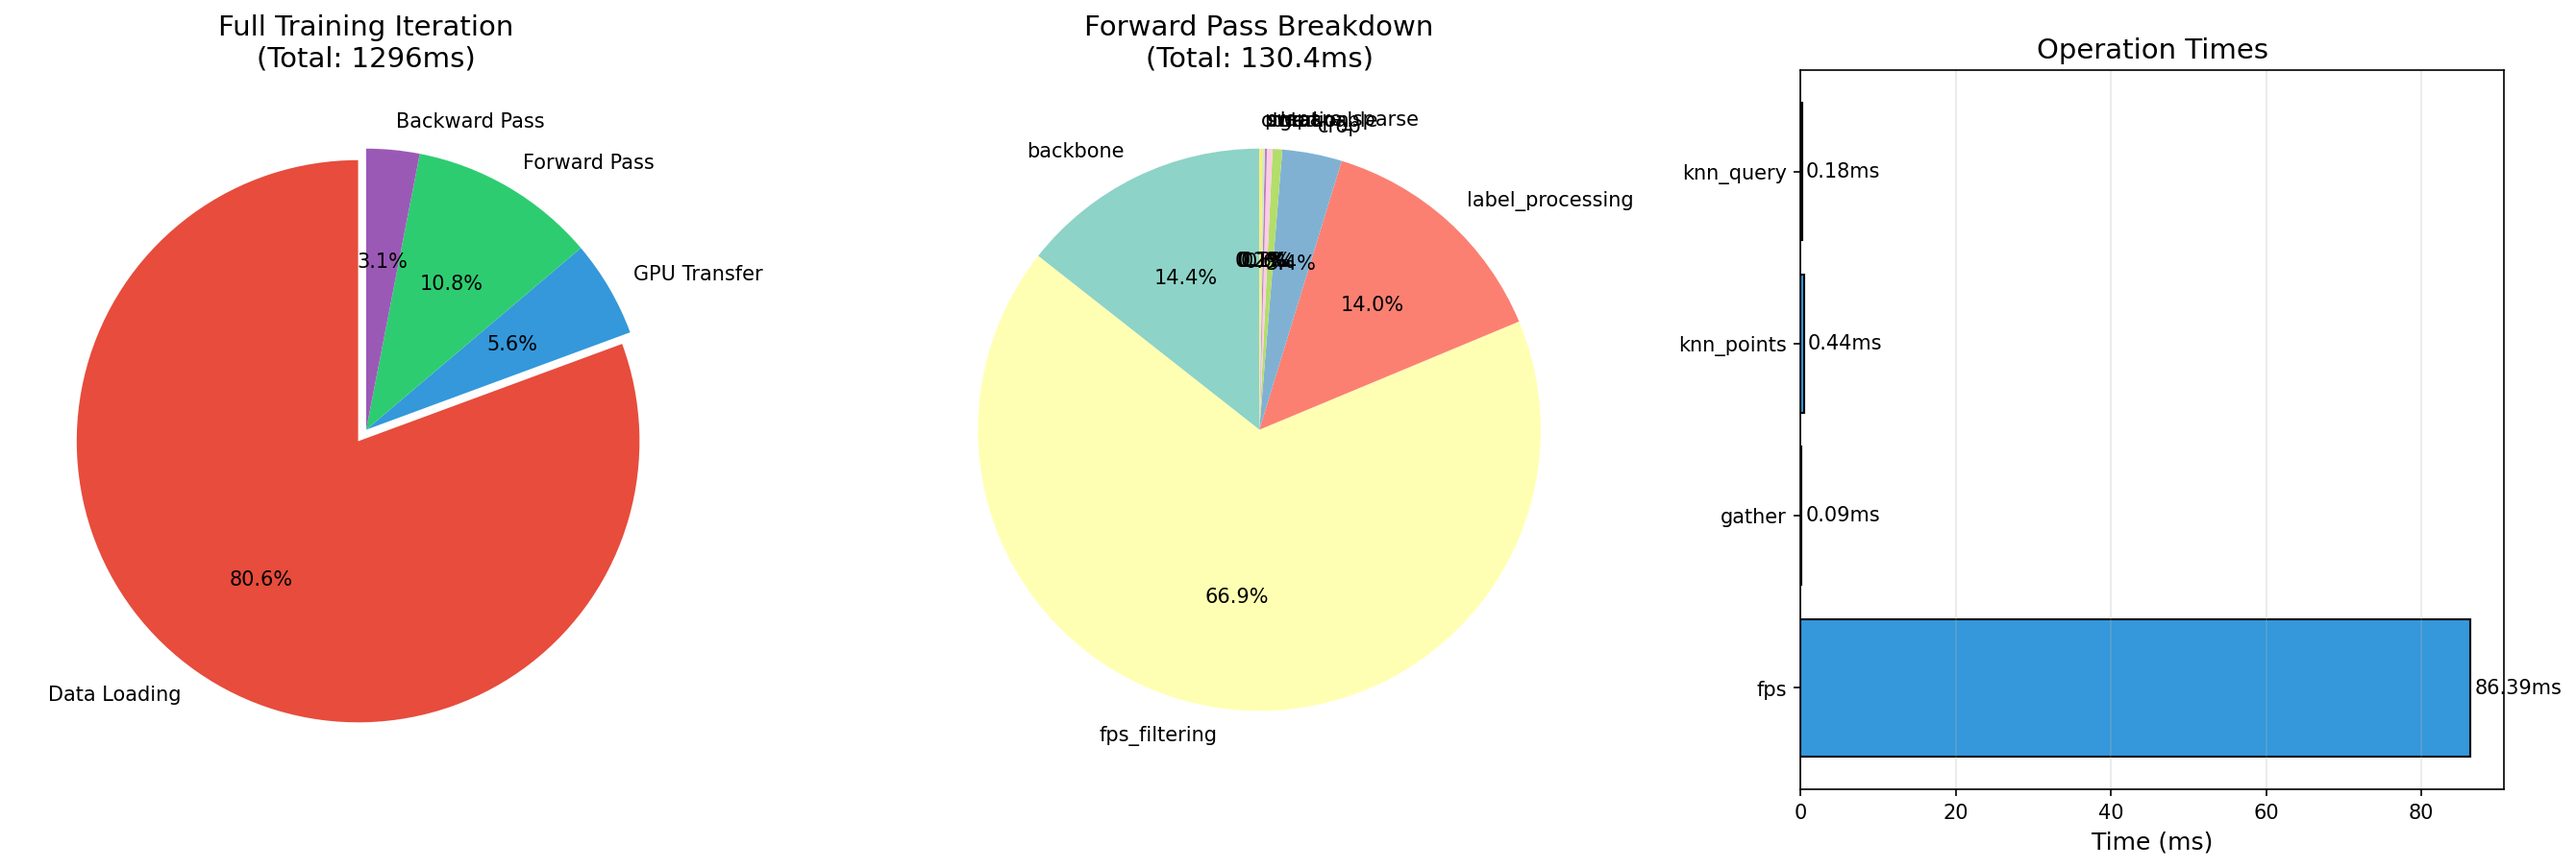
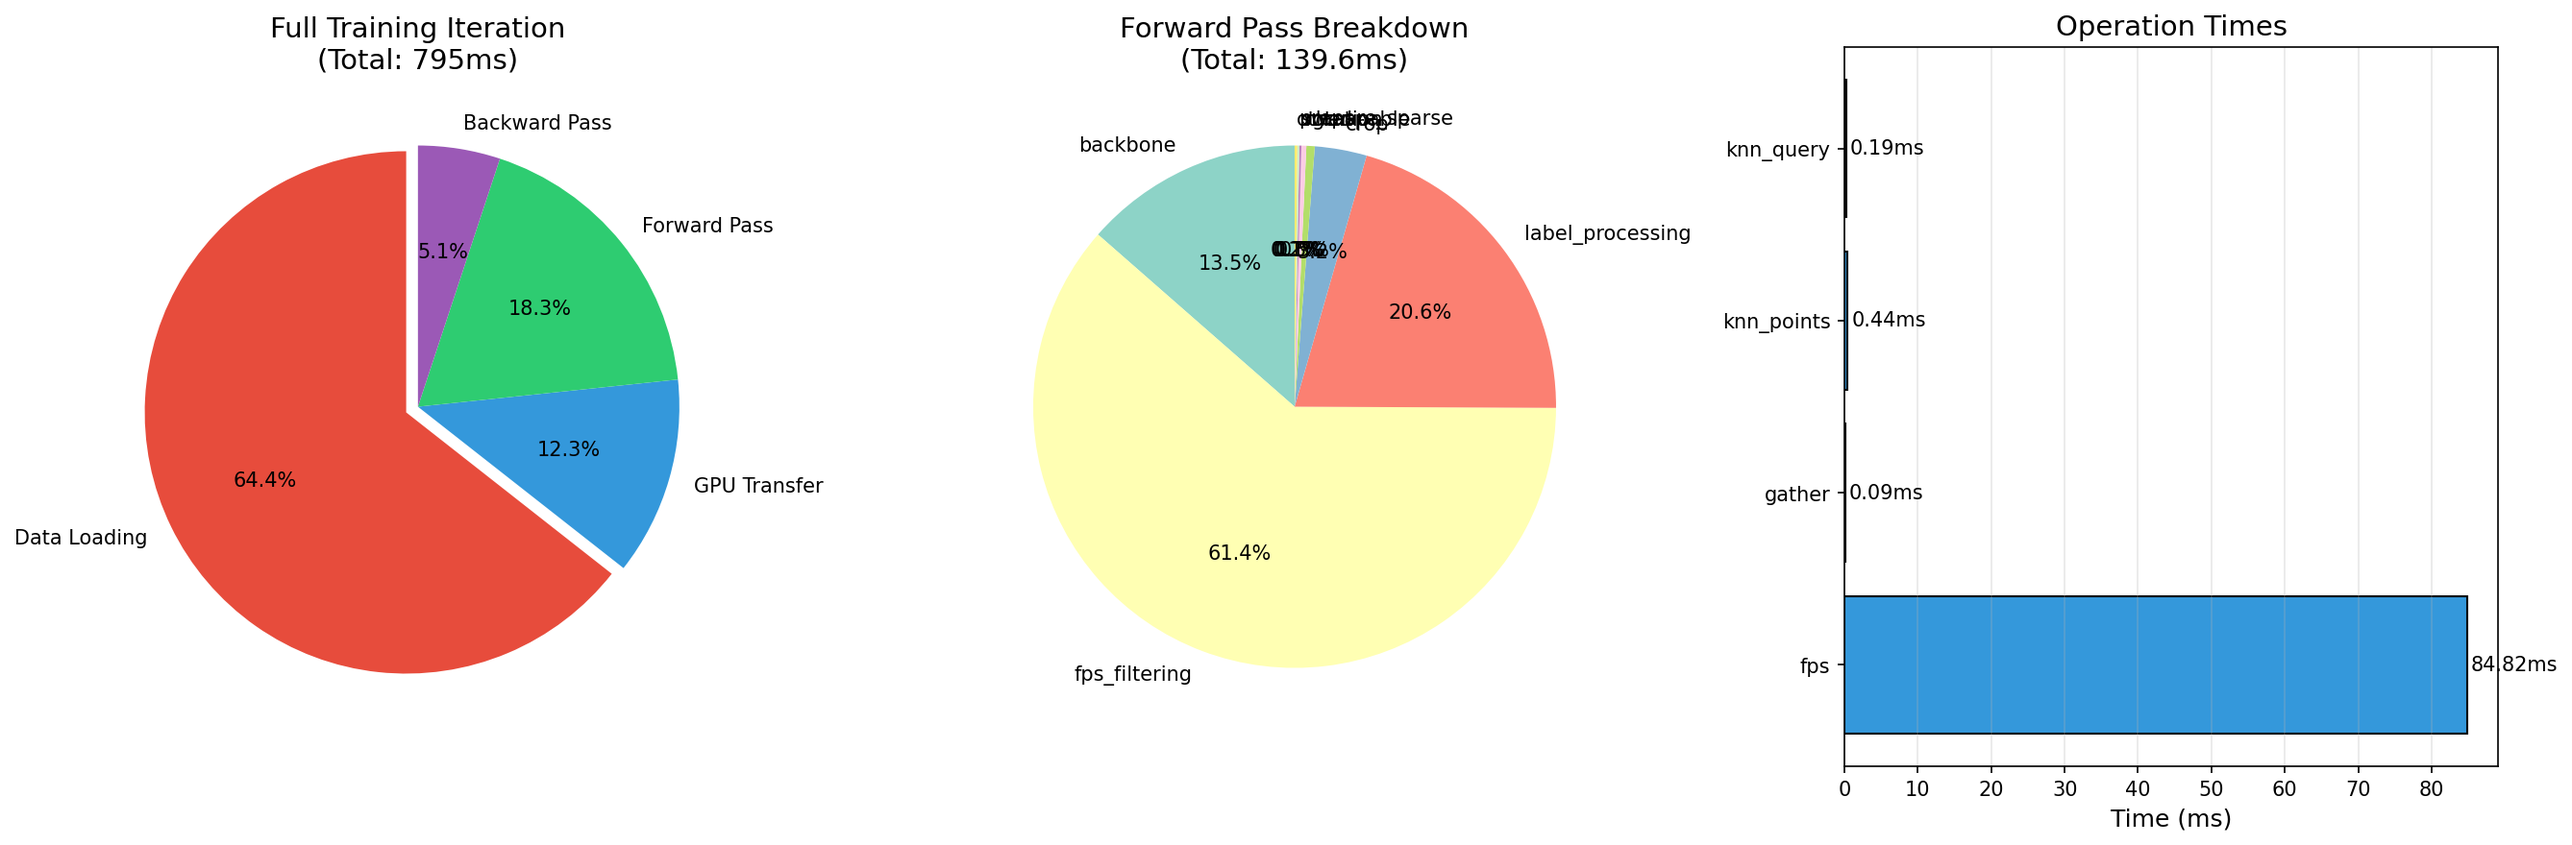
reverted back to lazy loading but increased cache size

diff --git a/dataset/graspnet_dataset.py b/dataset/graspnet_dataset.py
@@ -10,10 +10,74 @@ from functools import lru_cache
 
 import torch
 import collections.abc as container_abcs
-from torch.utils.data import Dataset
+from torch.utils.data import Dataset, Sampler
 from tqdm import tqdm
 from utils.data_utils import CameraInfo, transform_point_cloud, create_point_cloud_from_depth_image, get_workspace_mask
 from utils.stable_score_utils import ensure_stable_labels_exist, check_stable_labels_available
+
+
+class SceneAwareSampler(Sampler):
+    """
+    A sampler that groups samples by scene to maximize cache efficiency.
+    
+    Instead of randomly sampling across all indices (which causes cache thrashing
+    with lazy-loaded collision labels), this sampler:
+    1. Shuffles the order of scenes
+    2. Shuffles frames within each scene
+    3. Returns all frames from one scene before moving to the next
+    
+    This ensures that collision labels for a scene stay in cache while all
+    frames from that scene are being processed.
+    """
+    def __init__(self, dataset, shuffle=True, seed=None):
+        """
+        Args:
+            dataset: GraspNetDataset instance
+            shuffle: If True, shuffle scenes and frames within scenes
+            seed: Random seed for reproducibility (set per epoch for distributed training)
+        """
+        self.dataset = dataset
+        self.shuffle = shuffle
+        self.seed = seed
+        self.epoch = 0
+        
+        # Build scene to indices mapping
+        self.scene_to_indices = {}
+        for idx, scene in enumerate(dataset.scenename):
+            if scene not in self.scene_to_indices:
+                self.scene_to_indices[scene] = []
+            self.scene_to_indices[scene].append(idx)
+        
+        self.scenes = list(self.scene_to_indices.keys())
+    
+    def __iter__(self):
+        # Create a generator for reproducibility
+        if self.shuffle:
+            g = torch.Generator()
+            g.manual_seed(self.seed + self.epoch if self.seed is not None else self.epoch)
+            
+            # Shuffle scene order
+            scene_order = torch.randperm(len(self.scenes), generator=g).tolist()
+            
+            for scene_idx in scene_order:
+                scene = self.scenes[scene_idx]
+                indices = self.scene_to_indices[scene].copy()
+                # Shuffle frames within scene
+                frame_order = torch.randperm(len(indices), generator=g).tolist()
+                for i in frame_order:
+                    yield indices[i]
+        else:
+            # No shuffling - iterate in order
+            for scene in self.scenes:
+                for idx in self.scene_to_indices[scene]:
+                    yield idx
+    
+    def __len__(self):
+        return len(self.dataset)
+    
+    def set_epoch(self, epoch):
+        """Set epoch for shuffling reproducibility (important for distributed training)."""
+        self.epoch = epoch
 
 
 class LazyGraspLabels:
@@ -76,9 +140,11 @@ class GraspNetDataset(Dataset):
                         "Failed to compute stable labels. Please install trimesh: pip install trimesh"
                     )
         
-        # Pre-load collision labels into memory (like original implementation)
-        # This uses ~25-30GB RAM but eliminates the data loading bottleneck
-        self.collision_labels = {}
+        # Cache for collision labels - use LRU cache with max size to limit memory
+        # This allows recently accessed scenes to stay in memory while releasing old ones
+        # Size of 10 scenes balances memory (~1.8GB) with hit rate for batched scene access
+        self._collision_cache = {}
+        self._collision_cache_maxsize = 10  # Keep at most 10 scenes in cache
 
         if split == 'train':
             self.sceneIds = list(range(0,100))
@@ -101,7 +167,7 @@ class GraspNetDataset(Dataset):
         self.scenename = []
         self.frameid = []
         self.graspnesspath = []
-        for x in tqdm(self.sceneIds, desc='Loading data paths and collision labels...'):
+        for x in tqdm(self.sceneIds, desc='Loading data paths...'):
             for img_num in range(256):
                 self.depthpath.append(os.path.join(root, 'scenes', x, camera, 'depth', str(img_num).zfill(4) + '.png'))
                 self.rgbpath.append(os.path.join(root, 'scenes', x, camera, 'rgb', str(img_num).zfill(4) + '.png'))
@@ -110,15 +176,39 @@ class GraspNetDataset(Dataset):
                 self.graspnesspath.append(os.path.join(root, 'graspness', x, camera, str(img_num).zfill(4) + '.npy'))
                 self.scenename.append(x.strip())
                 self.frameid.append(img_num)
-            # Pre-load collision labels for this scene
-            if self.load_label:
-                collision_labels_npz = np.load(os.path.join(root, 'collision_label', x.strip(), 'collision_labels.npz'))
-                self.collision_labels[x.strip()] = {}
-                for i in range(len(collision_labels_npz)):
-                    self.collision_labels[x.strip()][i] = collision_labels_npz['arr_{}'.format(i)]
+            # REMOVED: No longer loading all collision labels at initialization
+            # This prevents each DataLoader worker from holding 3GB+ of collision data in memory
 
     def scene_list(self):
         return self.scenename
+    
+    def _load_collision_labels(self, scene):
+        """
+        Lazy load collision labels for a specific scene on-demand.
+        Uses an LRU cache to keep recently accessed scenes in memory.
+        This prevents memory explosion with multiple DataLoader workers.
+        """
+        if scene in self._collision_cache:
+            return self._collision_cache[scene]
+        
+        # Load collision labels for this scene
+        collision_labels_path = os.path.join(self.root, 'collision_label', scene, 'collision_labels.npz')
+        collision_labels_npz = np.load(collision_labels_path)
+        
+        # Convert to dictionary format
+        collision_dict = {}
+        for i in range(len(collision_labels_npz)):
+            collision_dict[i] = collision_labels_npz['arr_{}'.format(i)]
+        
+        # Implement simple LRU: if cache is full, remove oldest entry
+        if len(self._collision_cache) >= self._collision_cache_maxsize:
+            # Remove the first (oldest) item
+            oldest_scene = next(iter(self._collision_cache))
+            del self._collision_cache[oldest_scene]
+        
+        # Add to cache
+        self._collision_cache[scene] = collision_dict
+        return collision_dict
     
     def _load_stable_labels(self, obj_idx): # TODO: Verify this for correctness
         """
@@ -318,7 +408,8 @@ class GraspNetDataset(Dataset):
         grasp_widths_list = []
         grasp_scores_list = []
         
-        collision_labels_scene = self.collision_labels.get(scene)
+        # Lazy load collision labels for this scene only when needed
+        collision_labels_scene = self._load_collision_labels(scene) if self.load_label else None
         
         grasp_stable_list = []  # List of stable labels per object
         

diff --git a/train.py b/train.py
@@ -30,7 +30,7 @@ sys.path.append(os.path.join(ROOT_DIR, 'dataset'))
 
 from models.graspnet import GraspNet
 from models.loss import get_loss
-from dataset.graspnet_dataset import GraspNetDataset, spconv_collate_fn, load_grasp_labels, load_grasp_labels_lazy
+from dataset.graspnet_dataset import GraspNetDataset, spconv_collate_fn, load_grasp_labels, load_grasp_labels_lazy, SceneAwareSampler
 
 from tqdm import tqdm
 
@@ -218,16 +218,22 @@ def create_dataloaders():
         cfgs.max_epoch = 20
         log_string('Single-sample overfitting test enabled: 256x repeated, max_epoch set to 20')
     
-    # Create distributed samplers if running in distributed mode
+    # Create samplers
+    # SceneAwareSampler groups samples by scene to maximize collision label cache hits
+    # This is much faster than random shuffle with lazy loading
     train_sampler = None
     val_sampler = None
     if is_distributed():
         train_sampler = DistributedSampler(train_dataset, shuffle=True)
         val_sampler = DistributedSampler(val_dataset, shuffle=False)
         log_string(f'Using DistributedSampler with {WORLD_SIZE} processes')
+    else:
+        # Use scene-aware sampling for cache-friendly data loading
+        train_sampler = SceneAwareSampler(train_dataset, shuffle=True)
+        log_string('Using SceneAwareSampler for cache-friendly collision label loading')
     
     train_dataloader = DataLoader(train_dataset, batch_size=cfgs.batch_size, 
-                                  shuffle=(train_sampler is None),  # Only shuffle if no sampler
+                                  shuffle=False,  # Sampler handles shuffling
                                   sampler=train_sampler,
                                   num_workers=cfgs.num_workers, pin_memory=True, 
                                   persistent_workers=(cfgs.persistent_workers and cfgs.num_workers > 0),

diff --git a/experiments/benchmarking/benchmark_profiling.py b/experiments/benchmarking/benchmark_profiling.py
@@ -22,7 +22,7 @@ from torch.utils.data import DataLoader
 project_root = Path(__file__).parent.parent.parent
 sys.path.insert(0, str(project_root))
 
-from dataset.graspnet_dataset import GraspNetDataset, spconv_collate_fn, load_grasp_labels
+from dataset.graspnet_dataset import GraspNetDataset, spconv_collate_fn, load_grasp_labels, SceneAwareSampler
 
 
 # =============================================================================
@@ -570,10 +570,14 @@ def main():
         num_points=NUM_POINTS, voxel_size=VOXEL_SIZE,
         remove_outlier=True, augment=True, load_label=True,  # augment=True matches training
     )
-    dataloader = DataLoader(dataset, batch_size=1, shuffle=True,  # shuffle=True matches training
+    # Use SceneAwareSampler to match actual training behavior
+    # This groups samples by scene for cache-friendly collision label loading
+    sampler = SceneAwareSampler(dataset, shuffle=True)
+    dataloader = DataLoader(dataset, batch_size=1, shuffle=False,  # sampler handles shuffling
+                            sampler=sampler,
                             num_workers=0, pin_memory=True,  # pin_memory=True matches training
                             collate_fn=spconv_collate_fn)
-    print(f"Dataset: {len(dataset)} samples")
+    print(f"Dataset: {len(dataset)} samples (using SceneAwareSampler)")
     
     # Load model
     print("Loading model...")
